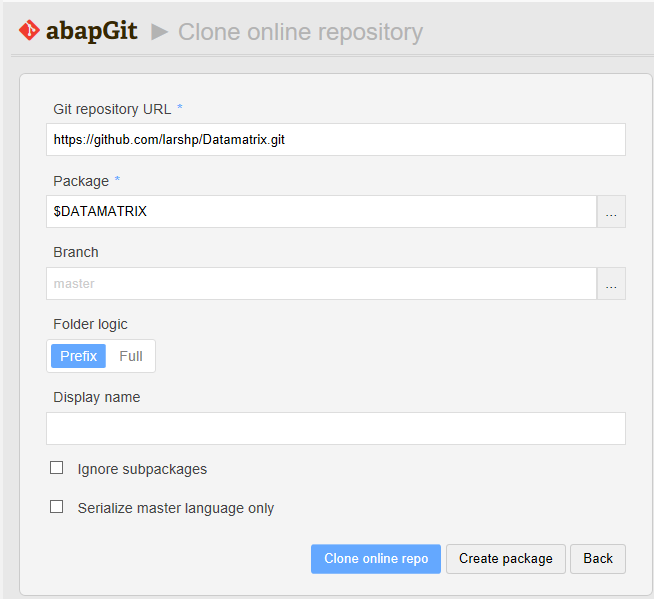
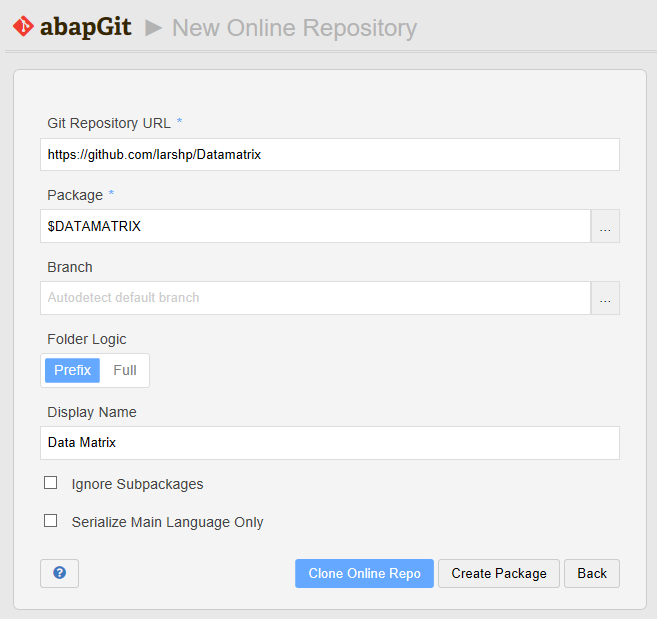
Update docs for "New Online/Offline" (#4188)
* Update screen shots

* Add offline install

* Screenshots

diff --git a/docs/guide-online-install.md b/docs/guide-online-install.md
@@ -8,16 +8,16 @@ order: 10
 
 ![](img/start.png)
 
-* Click on "New Online"
+* Select "New Online"
 
 ![](img/clone1.png)
 
-* Enter the url for the github project, eg https://github.com/larshp/Datamatrix.git along with a package name, eg. $DATAMATRIX. If the package does not exist yet, you can click on "Create package" to create it.
+* Enter the url for the Github project, eg https://github.com/larshp/Datamatrix.git along with a package name, eg. $DATAMATRIX. If the package does not exist yet, you can select "Create Package" to create it.
 
 ![](img/clone2.png)
 
-* Click ok
+* Select "Clone Online Repo"
 
-* Click "Pull" to copy all objects from the git repository into the SAP system
+* Select "Pull" to copy all objects from the Git repository into the SAP system
 
 ![](img/installed.png)

diff --git a/docs/guide-offline-install.md b/docs/guide-offline-install.md
@@ -1,0 +1,23 @@
+---
+title: Installing offline repo
+category: offline projects
+order: 05
+---
+
+* Start ZABAPGIT
+
+![](img/start.png)
+
+* Select "New Offline"
+
+![](img/offline1.png)
+
+* Enter the name for your project, eg "Datamatrix" along with a package name, eg. $DATAMATRIX. If the package does not exist yet, you can select "Create Package" to create it.
+
+![](img/offline2.png)
+
+* Select "Create Offline Repo"
+
+![](img/offline3.png)
+
+* Now you have a new offline repository. You can add your own objects to the package or import objects via a ZIP file.
